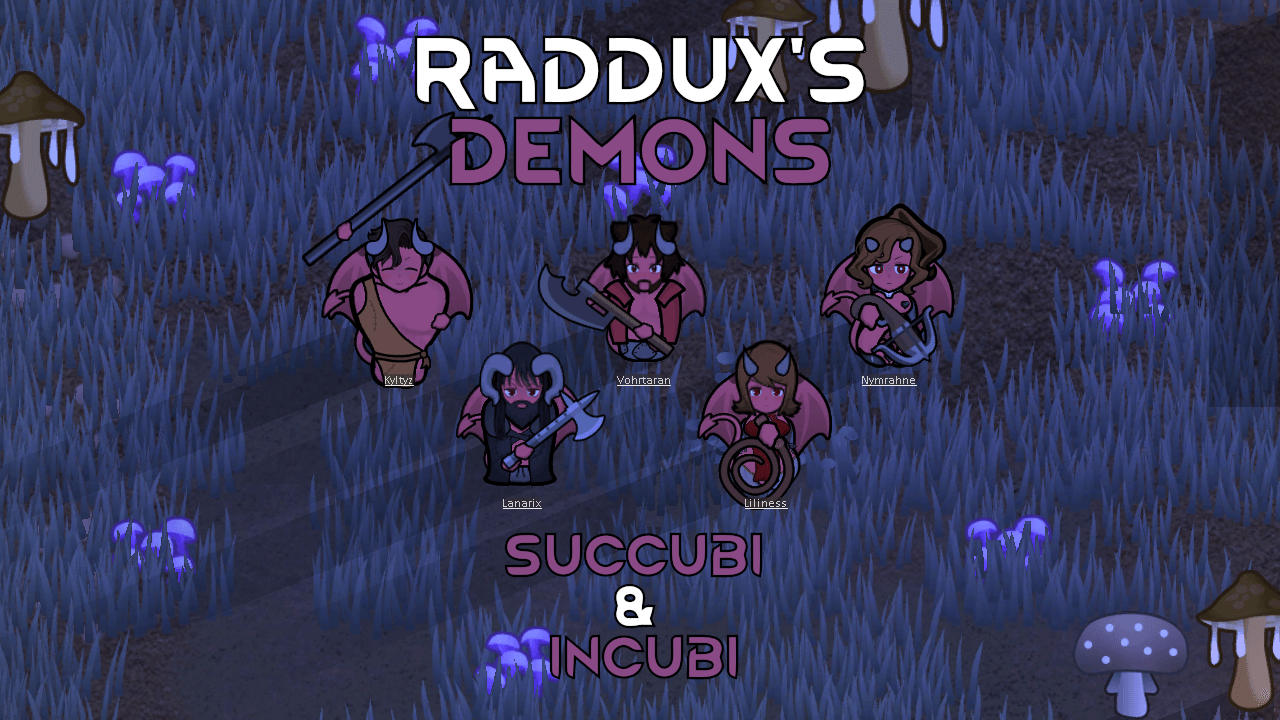
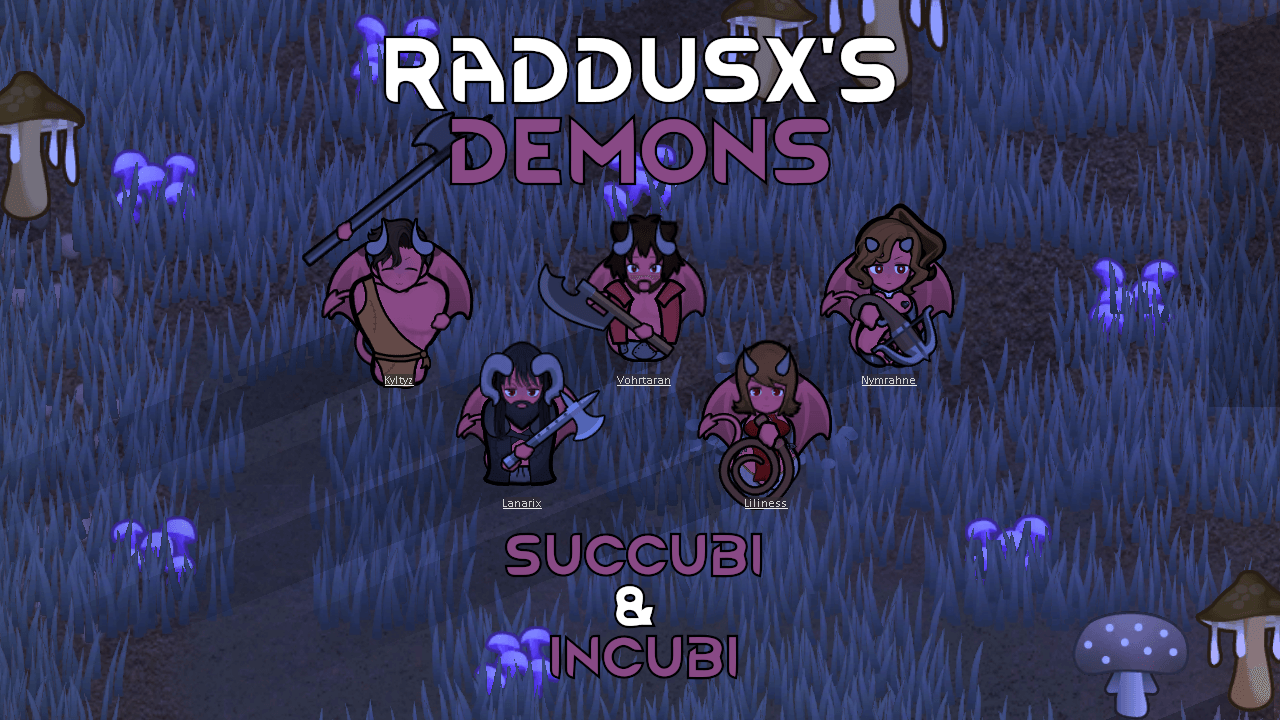
updated preview image (typo), minor changes to code comments, removed some unnecessary code, updated versions

Changed region(s): [[0.2812, 0.0306, 0.7188, 0.1528], [0.9688, 0.9472, 1.0, 0.9778]]

diff --git a/Source/Abilities/Polymorph_Ability.cs b/Source/Abilities/Polymorph_Ability.cs
@@ -77,7 +77,7 @@ namespace RaddusX.Demons.Abilities
                 GeneDef pawnHumanFormGeneDef = Pawn_Utility.GetHumanFormXenogeneDef(pawn);
                 pawn.genes.AddGene(pawnHumanFormGeneDef, xenogene: true);
 
-                // Override Horns, Claws, Wings, Tail, and Skin Color
+                // Override Horns, Claws, Wings, Tail, and eye & skin color
                 AddHumanFormGeneOverrides(pawn);
             }
             else // Human form - Switch to Demon form
@@ -108,7 +108,7 @@ namespace RaddusX.Demons.Abilities
         }
 
         /**
-         * Add overrides for horns/claws/wings/tail/skin color when transforming into the human form.
+         * Add overrides for horns/claws/wings/tail/eye color/skin color when transforming into the human form.
          *
          * Overrides are added so that specific genes are disabled, for example so that horns are no longer displayed when in human form.
          *
@@ -126,7 +126,7 @@ namespace RaddusX.Demons.Abilities
                 return;
             }
 
-            // Add Override for Horns, Claws, Wings, Tail, and Skin Color
+            // Add Override for Horns, Claws, Wings, Tail, and eye & skin color
             if (Pawn_Utility.IsIncubusXenotype(pawn))
             {
                 Pawn_Utility.GetXenotypeGene(Defs.RaddusX_Demons_Incubus_Horns_Gene, pawn)?.OverrideBy(pawnHumanFormGene);
@@ -140,7 +140,6 @@ namespace RaddusX.Demons.Abilities
             Pawn_Utility.GetXenotypeGene(Defs.RaddusX_Demons_Tail_Gene, pawn)?.OverrideBy(pawnHumanFormGene);
 
             // Skin doesn't update even if it's being overwritten, so we'll remove it instead.
-            Pawn_Utility.GetXenotypeGene(Defs.Skin_PaleRed, pawn)?.OverrideBy(pawnHumanFormGene);
             Gene pawnPaleRedSkinGene = Pawn_Utility.GetXenotypeGene(Defs.Skin_PaleRed, pawn);
             if (pawnPaleRedSkinGene != null)
             {
@@ -175,7 +174,7 @@ namespace RaddusX.Demons.Abilities
             GeneDef demonFormGeneDef = Pawn_Utility.GetDemonFormXenogeneDef(pawn);
             pawn.genes.AddGene(demonFormGeneDef, xenogene: true);
 
-            // Remove Override for Horns, Claws, Wings, Tail, and Skin Color
+            // Remove Override for Horns, Claws, Wings, Tail, and eye & skin color
             if (Pawn_Utility.IsIncubusXenotype(pawn))
             {
                 Pawn_Utility.GetXenotypeGene(Defs.RaddusX_Demons_Incubus_Horns_Gene, pawn)?.OverrideBy(null);

diff --git a/Source/Abilities/Draining_Kiss_Ability.cs b/Source/Abilities/Draining_Kiss_Ability.cs
@@ -26,8 +26,8 @@ namespace RaddusX.Demons.Abilities
         /**
         * Called when checking if the Ability can be used on the target
         *
-        * @param LocalTargetInfo       target    The target of the ability
-        * @param LocalTargetInfo|null  _unused   NULL
+        * @param LocalTargetInfo   target         The target of the ability
+        * @param bool              throwMessages  (Default true) Whether to display messages at the top left of the screen, when the ability cannot be used for example.
         *
         * @return bool
        */
@@ -155,19 +155,17 @@ namespace RaddusX.Demons.Abilities
             // Add Drained hediff
             caster.health.AddHediff(Defs.RaddusX_Demons_Draining_Kiss_Caster_Drained_Hediff);
 
-            //Thought_Memory thought = ThoughtMaker.MakeThought(Defs.RaddusX_Demons_Tried_To_Drain_Me_Negative_Thought, 0);
+            // Give target a negative thought towards the caster since they tried to drain them
             Thought_Memory thought = ThoughtMaker.MakeThought(Defs.RaddusX_Demons_Tried_To_Drain_Me_Negative_Thought, 0);
-
             if (thought == null)
             {
                 Logging_Utility.LogMessage("thought is null");
-                return;
             }
-
-            Logging_Utility.LogMessage("thought is not null");
-
-            // Give target a negative thought towards the caster since they tried to drain them
-            target.needs.mood.thoughts.memories.TryGainMemory(thought, caster);
+            else
+            {
+                Logging_Utility.LogMessage("thought is not null");
+                target.needs.mood.thoughts.memories.TryGainMemory(thought, caster);
+            }
 
             // Make victim hostile & attack the caster (if capable)
             if (target.Downed)
@@ -250,7 +248,7 @@ namespace RaddusX.Demons.Abilities
         */
         private void TransformTarget(Pawn target, Pawn caster)
         {
-            Logging_Utility.LogMessage("RaddusX.Demons.Draining_Kiss_Ability_Effect.DrainPawn() Called");
+            Logging_Utility.LogMessage("RaddusX.Demons.Draining_Kiss_Ability_Effect.TransformTarget() Called");
 
             // Change Xenotype
             target.genes.SetXenotype(XenotypeDefOf.Sanguophage);
